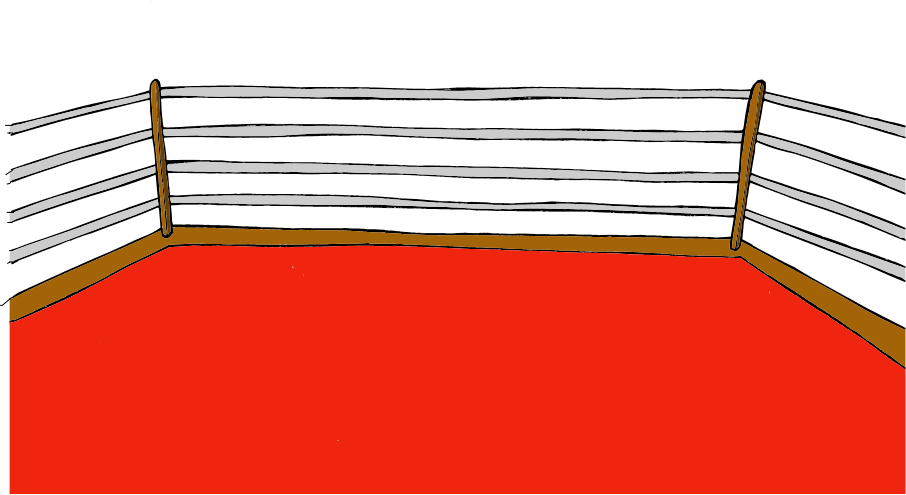
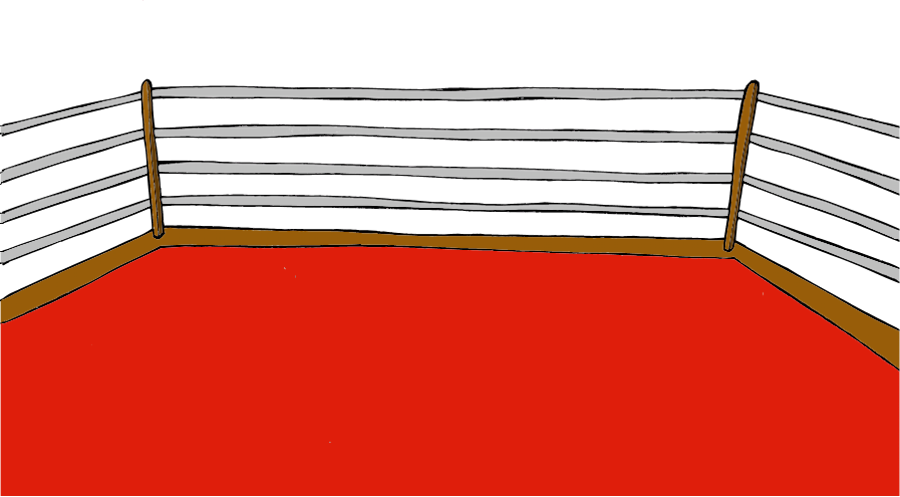
added background for broddstafir

diff --git a/game.js b/game.js
@@ -34,12 +34,16 @@ function preload()
 {
     // ================ Background images ================ 
     game.load.image('homePage', 'Assets/Images/Backgrounds/homePage.png');
-    game.load.image('blueBackground', 'Assets/Images/Backgrounds/blueBackground.png');
     // For first 4 assignments - function Assignment1
     game.load.image('homeKeysBackground', 'Assets/Images/Backgrounds/homeKeysBackground.png');
     // For assignment heimalyklar - function Assignment2
+    game.load.image('blueBackground', 'Assets/Images/Backgrounds/blueBackground.png');
     game.load.image('farm', 'Assets/Images/Backgrounds/sveit.png');
     game.load.image('clouds', 'Assets/Images/Backgrounds/sky.png');
+    // For assignment broddstafir - function Assignment5
+    game.load.image('blueBackground2', 'Assets/Images/Backgrounds/blueBackground2.png');
+    game.load.image('box', 'Assets/Images/Backgrounds/box.png');
+
     
 
 
@@ -124,19 +128,19 @@ function loadHomePage()
     btnHome2.events.onInputDown.add(Assignment2, {exercise: heimalyklar2});
 
     var btnEh = game.add.button(30, 305, 'eh');
-    btnEh.events.onInputDown.add(Assignment, {exercise: eh});
+    btnEh.events.onInputDown.add(Assignment, {exercise: eh}); //3
 
     var btnIg = game.add.button(30, 345, 'ig');
-    btnIg.events.onInputDown.add(Assignment, {exercise: ig});
+    btnIg.events.onInputDown.add(Assignment, {exercise: ig}); // 3
 
     var btnBn = game.add.button(30, 385, 'bn');
-    btnBn.events.onInputDown.add(Assignment, {exercise: bn});
+    btnBn.events.onInputDown.add(Assignment, {exercise: bn}); // 4
 
-    var btnRo = game.add.button(30, 425, 'ro');
-    btnRo.events.onInputDown.add(Assignment, {exercise: ro});
+    var btnRo = game.add.button(30, 425, 'ro'); 
+    btnRo.events.onInputDown.add(Assignment, {exercise: ro}); // 4
 
     var btnBrodd = game.add.button(30, 465, 'broddstafir');
-    btnBrodd.events.onInputDown.add(Assignment, {exercise: broddstafir});
+    btnBrodd.events.onInputDown.add(Assignment5, {exercise: broddstafir}); 
 
     var btnHastafir = game.add.button(30, 520, 'hastafir');
     btnHastafir.events.onInputDown.add(Assignment, {exercise: hastafir});
@@ -198,7 +202,6 @@ function Assignment2(exerciseNr)
     {
         this.exerciseNr = 0;
     }
-  
 
     // Load new background
     background = game.add.image(game.world.centerX, 204, 'blueBackground');
@@ -213,8 +216,6 @@ function Assignment2(exerciseNr)
 
     // When key is pressed the function keyPress is called
     game.input.keyboard.addCallbacks(this, null, null, keyPress);
-    
-    
 
     addExitButton();
     addMuteButton();
@@ -222,6 +223,41 @@ function Assignment2(exerciseNr)
     addAssignmentImages('heyBaggi', this.exercise, 25, 475, 0, 4, 100);
     addAssignmentImages('blom', this.exercise, 430, 475, 4, 4, 60);
     addAssignmentImages('mus2', this.exercise, 650, 475, 8, 3, 75);
+
+}
+
+function Assignment5(exerciseNr) 
+{
+    // Empty the canvas
+    game.world.removeAll();
+    intro.destroy();
+
+    if(!this.exerciseNr)
+    {
+        this.exerciseNr = 0;
+    }
+
+    // Load new background
+    background = game.add.image(game.world.centerX, game.world.centerY, 'blueBackground2');
+    game.add.image(0, 103,'box');
+    background.anchor.setTo(0.5, 0.5);
+
+    // Create the textArea
+    text = this.exercise[this.exerciseNr];
+    textArea = game.add.text(game.world.centerX, game.world.centerY/2 + 50 , text, style);
+    textArea.anchor.set(0.5);
+
+    // When key is pressed the function keyPress is called
+    game.input.keyboard.addCallbacks(this, null, null, keyPress);
+
+    addExitButton();
+    addMuteButton();
+/*
+    addAssignmentImages('blakbolti', this.exercise, 25, 475, 0, 4, 100);
+    addAssignmentImages('fotbolti', this.exercise, 430, 475, 4, 4, 60);
+    addAssignmentImages('korfubolti', this.exercise, 650, 475, 8, 3, 75);
+    addAssignmentImages('rubbybolti', this.exercise, 650, 475, 8, 3, 75);
+    addAssignmentImages('tennisbolti', this.exercise, 650, 475, 8, 3, 75);*/
 
 }
 
@@ -278,15 +314,6 @@ function Assignment(exerciseNr)
         addAssignmentImages('blom', this.exercise, 430, 475, 4, 4, 60);
         addAssignmentImages('mus2', this.exercise, 650, 475, 8, 3, 75);
     }
-    else if(this.exercise === broddstafir)
-    {
-        addAssignmentImages('blakbolti', this.exercise, 25, 475, 0, 4, 100);
-        addAssignmentImages('fotbolti', this.exercise, 430, 475, 4, 4, 60);
-        addAssignmentImages('korfubolti', this.exercise, 650, 475, 8, 3, 75);
-        addAssignmentImages('rubbybolti', this.exercise, 650, 475, 8, 3, 75);
-        addAssignmentImages('tennisbolti', this.exercise, 650, 475, 8, 3, 75);
-    }
-
 }
 
 function keyPress(char) 
